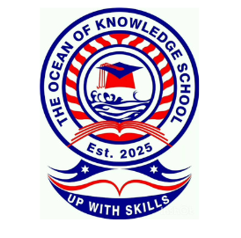
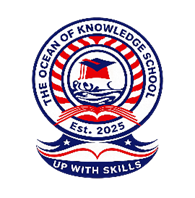
holder btn

diff --git a/frontend/admin-dashboard/dashboard.js b/frontend/admin-dashboard/dashboard.js
@@ -580,8 +580,25 @@
             nameInput.value = displayName;
           }
         });
+        // Always show all 3 slots so user can add the third holder if they only had 2
         for (let i = sorted.length; i < 3; i++) {
-          if (slots[i]) slots[i].style.display = 'none';
+          if (!slots[i]) continue;
+          const wrap = slots[i].querySelector('.holder-thumb-wrap');
+          const thumb = slots[i].querySelector('.holder-thumb');
+          const nameInput = slots[i].querySelector('.holder-name-input');
+          const existingPlaceholder = wrap && wrap.querySelector('.holder-thumb-placeholder');
+          if (existingPlaceholder) existingPlaceholder.remove();
+          if (thumb) {
+            thumb.src = '';
+            thumb.style.display = 'none';
+            if (wrap) {
+              const span = document.createElement('span');
+              span.className = 'holder-thumb-placeholder';
+              span.textContent = 'No photo';
+              wrap.appendChild(span);
+            }
+          }
+          if (nameInput) nameInput.value = '';
         }
       })
       .catch((err) => {
@@ -619,6 +636,64 @@
       if (e.target === editChildModal) closeEditChildModal();
     });
   }
+
+  holderPhotosEdit.addEventListener('click', (e) => {
+    const removeBtn = e.target.closest('.btn-remove-photo');
+    if (!removeBtn) return;
+    const slot = removeBtn.closest('.holder-edit-slot');
+    if (!slot) return;
+    const pickerId = slot.getAttribute('data-picker-id');
+    const thumb = slot.querySelector('.holder-thumb');
+    const wrap = slot.querySelector('.holder-thumb-wrap');
+    const fileInput = slot.querySelector('.holder-replace-input');
+    const nameInput = slot.querySelector('.holder-name-input');
+    const holderName = (nameInput && nameInput.value) ? String(nameInput.value).trim() : null;
+    const slotIndex = parseInt(slot.getAttribute('data-slot'), 10);
+    const displayName = holderName || `Holder ${(slotIndex + 1)}`;
+
+    function clearSlotPhoto() {
+      if (thumb && thumb.dataset.revokeUrl) {
+        URL.revokeObjectURL(thumb.dataset.revokeUrl);
+        delete thumb.dataset.revokeUrl;
+      }
+      if (fileInput) fileInput.value = '';
+      if (thumb) {
+        thumb.src = '';
+        thumb.style.display = 'none';
+      }
+      const existingPlaceholder = wrap && wrap.querySelector('.holder-thumb-placeholder');
+      if (existingPlaceholder) existingPlaceholder.remove();
+      if (wrap) {
+        const span = document.createElement('span');
+        span.className = 'holder-thumb-placeholder';
+        span.textContent = 'No photo';
+        wrap.appendChild(span);
+      }
+    }
+
+    if (editingChildId != null && pickerId) {
+      setStatus(editChildStatus, 'Removing photo...', 'info');
+      const fd = new FormData();
+      fd.append('name', displayName);
+      fd.append('photoUrl', '');
+      fetch(`/api/children/${editingChildId}/pickers/${pickerId}`, {
+        method: 'PUT',
+        headers: { Authorization: 'Bearer ' + getToken() },
+        body: fd,
+      })
+        .then((pr) => {
+          if (!pr.ok) return pr.json().then((j) => Promise.reject(j));
+          clearSlotPhoto();
+          setStatus(editChildStatus, 'Photo removed.', 'success');
+          setTimeout(() => setStatus(editChildStatus, '', ''), 2000);
+        })
+        .catch((j) => {
+          setStatus(editChildStatus, (j && j.error) || 'Failed to remove photo.', 'error');
+        });
+    } else {
+      clearSlotPhoto();
+    }
+  });
 
   holderPhotosEdit.addEventListener('change', (e) => {
     const fileInput = e.target.closest('.holder-edit-slot') && e.target.classList.contains('holder-replace-input') ? e.target : null;
@@ -676,25 +751,44 @@
         for (let i = 0; i < slots.length; i++) {
           const slot = slots[i];
           const pickerId = slot.getAttribute('data-picker-id');
-          if (!pickerId) continue;
           const fileInput = slot.querySelector('.holder-replace-input');
           const nameInput = slot.querySelector('.holder-name-input');
-          const fd = new FormData();
-          fd.append('pickerIndex', String(i));
           const holderName = (nameInput && nameInput.value) ? String(nameInput.value).trim() : `Holder ${i + 1}`;
-          fd.append('name', holderName || `Holder ${i + 1}`);
-          if (fileInput && fileInput.files && fileInput.files[0]) {
-            fd.append('photo', fileInput.files[0]);
-          }
-          const pr = await fetch(`/api/children/${editingChildId}/pickers/${pickerId}`, {
-            method: 'PUT',
-            headers: { Authorization: 'Bearer ' + getToken() },
-            body: fd,
-          });
-          if (!pr.ok) {
-            const j = await pr.json().catch(() => ({}));
-            setStatus(editChildStatus, j.error || 'Failed to update holder.', 'error');
-            return;
+
+          if (pickerId) {
+            const fd = new FormData();
+            fd.append('pickerIndex', String(i));
+            fd.append('name', holderName || `Holder ${i + 1}`);
+            if (fileInput && fileInput.files && fileInput.files[0]) {
+              fd.append('photo', fileInput.files[0]);
+            }
+            const pr = await fetch(`/api/children/${editingChildId}/pickers/${pickerId}`, {
+              method: 'PUT',
+              headers: { Authorization: 'Bearer ' + getToken() },
+              body: fd,
+            });
+            if (!pr.ok) {
+              const j = await pr.json().catch(() => ({}));
+              setStatus(editChildStatus, j.error || 'Failed to update holder.', 'error');
+              return;
+            }
+          } else {
+            if (fileInput && fileInput.files && fileInput.files[0]) {
+              const fd = new FormData();
+              fd.append('pickerIndex', String(i));
+              fd.append('name', holderName || `Holder ${i + 1}`);
+              fd.append('photo', fileInput.files[0]);
+              const pr = await fetch(`/api/children/${editingChildId}/pickers`, {
+                method: 'POST',
+                headers: { Authorization: 'Bearer ' + getToken() },
+                body: fd,
+              });
+              if (!pr.ok) {
+                const j = await pr.json().catch(() => ({}));
+                setStatus(editChildStatus, j.error || 'Failed to add holder.', 'error');
+                return;
+              }
+            }
           }
         }
         setStatus(editChildStatus, 'Child updated.', 'success');

diff --git a/frontend/admin-dashboard/index.html b/frontend/admin-dashboard/index.html
@@ -322,19 +322,28 @@
                 <div class="holder-thumb-wrap"><img class="holder-thumb" alt="Holder 1" /></div>
                 <label class="small" for="holder-name-0">Holder 1 name</label>
                 <input type="text" class="holder-name-input" id="holder-name-0" placeholder="e.g. Sharon" data-slot="0" />
-                <input type="file" class="holder-replace-input" accept="image/*" data-slot="0" />
+                <div class="holder-photo-actions">
+                  <input type="file" class="holder-replace-input" accept="image/*" data-slot="0" />
+                  <button type="button" class="btn-remove-photo" data-slot="0">Remove photo</button>
+                </div>
               </div>
               <div class="holder-edit-slot" data-slot="1">
                 <div class="holder-thumb-wrap"><img class="holder-thumb" alt="Holder 2" /></div>
                 <label class="small" for="holder-name-1">Holder 2 name</label>
                 <input type="text" class="holder-name-input" id="holder-name-1" placeholder="e.g. John" data-slot="1" />
-                <input type="file" class="holder-replace-input" accept="image/*" data-slot="1" />
+                <div class="holder-photo-actions">
+                  <input type="file" class="holder-replace-input" accept="image/*" data-slot="1" />
+                  <button type="button" class="btn-remove-photo" data-slot="1">Remove photo</button>
+                </div>
               </div>
               <div class="holder-edit-slot" data-slot="2">
                 <div class="holder-thumb-wrap"><img class="holder-thumb" alt="Holder 3" /></div>
                 <label class="small" for="holder-name-2">Holder 3 name</label>
                 <input type="text" class="holder-name-input" id="holder-name-2" placeholder="e.g. Mary" data-slot="2" />
-                <input type="file" class="holder-replace-input" accept="image/*" data-slot="2" />
+                <div class="holder-photo-actions">
+                  <input type="file" class="holder-replace-input" accept="image/*" data-slot="2" />
+                  <button type="button" class="btn-remove-photo" data-slot="2">Remove photo</button>
+                </div>
               </div>
             </div>
           </div>

diff --git a/frontend/admin-dashboard/styles.css b/frontend/admin-dashboard/styles.css
@@ -537,7 +537,10 @@ html[data-theme="dark"] body.login-page {
 .login-badge {
   width: 180px;
   height: auto;
+  max-height: 180px;
   display: block;
+  object-fit: contain;
+  object-position: center;
 }
 
 /* Glowing border wrapper: badge colors around the form */
@@ -833,6 +836,39 @@ html:not([data-theme="dark"]) .theme-toggle .icon-moon {
   padding: 0.35rem 0.5rem;
   border: 1px solid #e2e8f0;
   border-radius: 0.35rem;
+}
+.holder-photo-actions {
+  display: flex;
+  align-items: center;
+  justify-content: space-between;
+  gap: 0.5rem;
+  width: 100%;
+  margin-top: 0.25rem;
+}
+.holder-photo-actions .holder-replace-input {
+  flex: 0 1 auto;
+  min-width: 0;
+  font-size: 0.8rem;
+  padding: 0.25rem;
+}
+.btn-remove-photo {
+  flex-shrink: 0;
+  padding: 0.35rem 0.6rem;
+  font-size: 0.8rem;
+  font-weight: 600;
+  border-radius: 0.5rem;
+  border: 1px solid var(--border-input);
+  background: var(--btn-secondary-bg);
+  color: var(--accent);
+  cursor: pointer;
+  white-space: nowrap;
+}
+.btn-remove-photo:hover {
+  background: var(--btn-secondary-hover);
+}
+html[data-theme="dark"] .btn-remove-photo {
+  color: #f87171;
+  border-color: #64748b;
 }
 .holder-edit-slot .holder-replace-input {
   font-size: 0.8rem;
